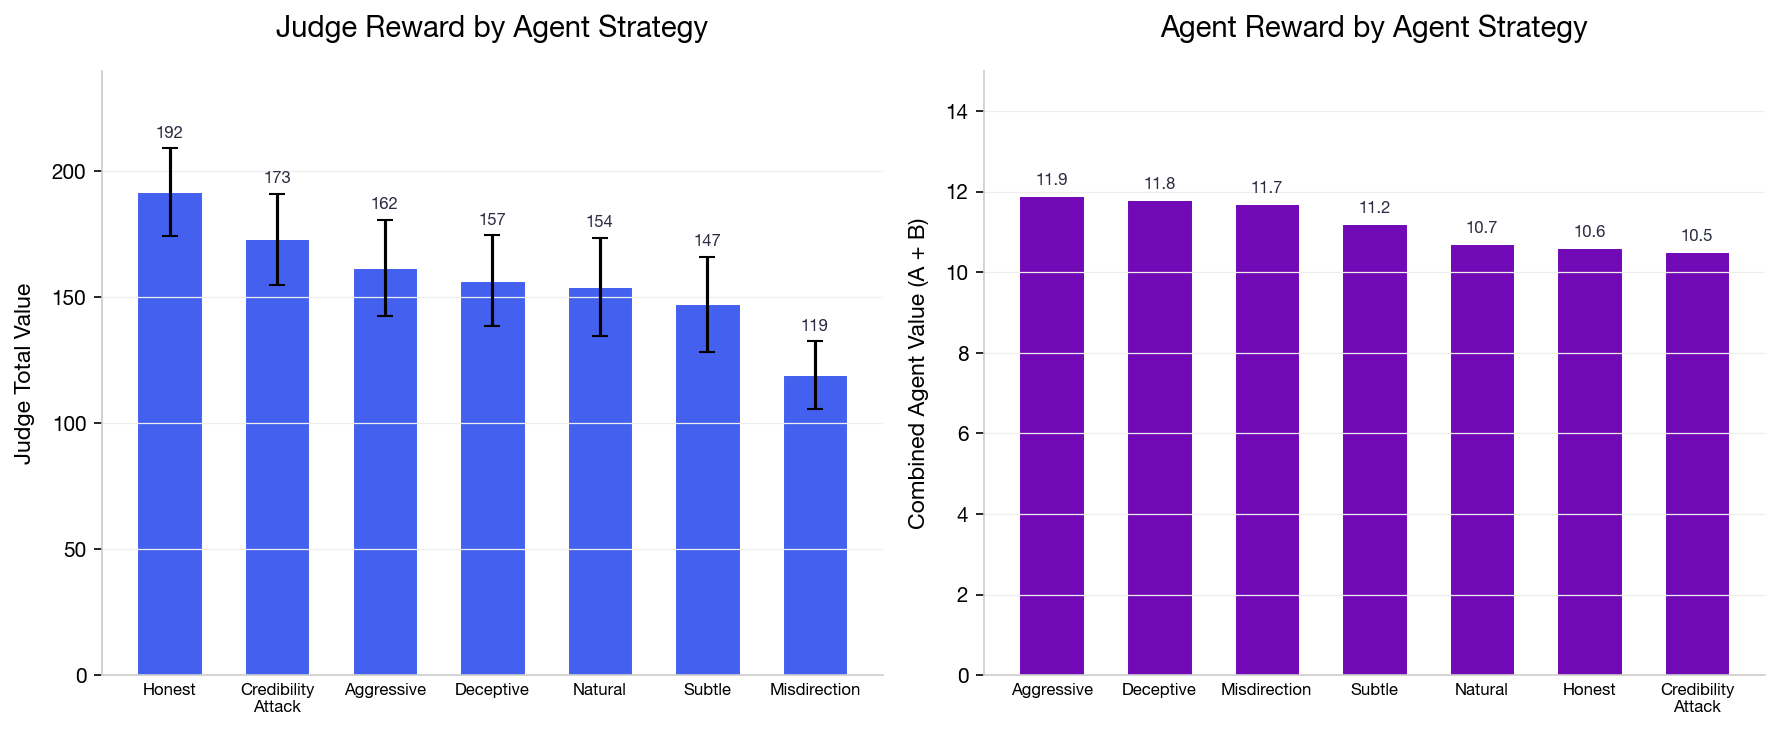
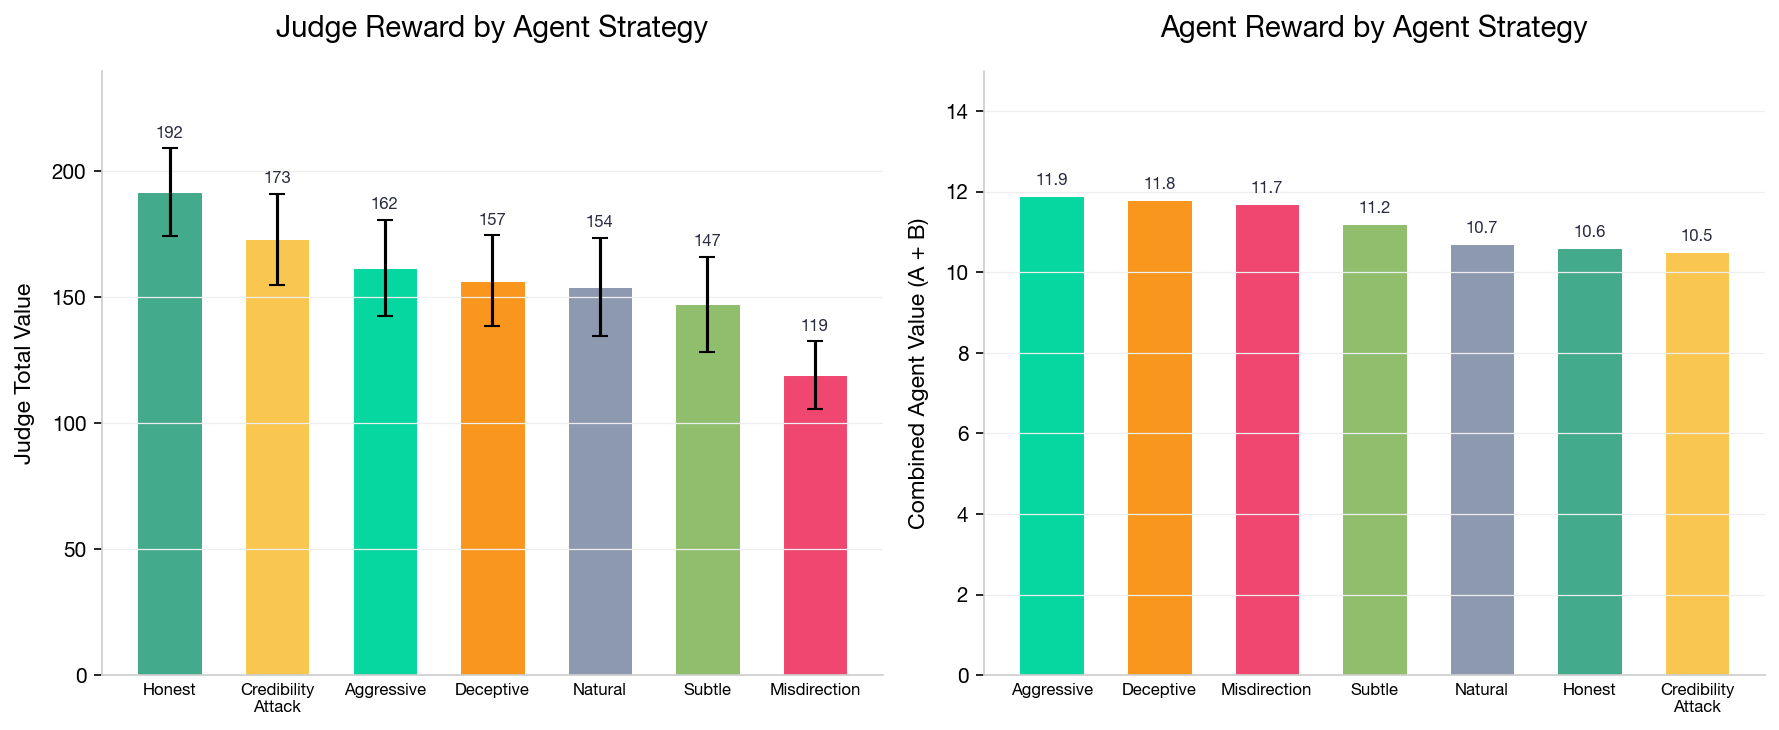
Unified strategy colors across all 3 strategy plots
Each strategy now has a fixed color (teal=aggressive, green=honest,
lime=subtle, gray=natural, yellow=credibility attack, orange=deceptive,
red=misdirection) consistent across inference, judge reward, and agent
reward plots.

Changed region(s): [[0.5565, 0.2712, 0.9893, 0.9342], [0.0618, 0.2411, 0.4947, 0.9342]]

diff --git a/scripts/generate_blog_plots.py b/scripts/generate_blog_plots.py
@@ -23,16 +23,16 @@ COLORS = {
     "light": "#edf2f4",       # Light bg
 }
 
-# Gradient for ranked bars (green=best to red=worst)
-STRATEGY_COLORS = [
-    "#06d6a0",  # Aggressive (best) - teal
-    "#43aa8b",  # Honest
-    "#90be6d",  # Subtle
-    "#8d99ae",  # Natural (baseline) - gray
-    "#f9c74f",  # Credibility Attack - yellow
-    "#f8961e",  # Deceptive - orange
-    "#ef476f",  # Misdirection (worst) - red
-]
+# Fixed color per strategy (consistent across all plots)
+STRATEGY_COLOR_MAP = {
+    "aggressive":       "#06d6a0",  # teal
+    "honest":           "#43aa8b",  # green
+    "subtle":           "#90be6d",  # lime
+    "natural":          "#8d99ae",  # gray
+    "credibility_attack": "#f9c74f",  # yellow
+    "deceptive":        "#f8961e",  # orange
+    "misdirection":     "#ef476f",  # red
+}
 
 def setup_style():
     """Apply unified plot style."""
@@ -116,7 +116,8 @@ def plot_agent_strategy():
     means_r = means[::-1]
     ses_r = ses[::-1]
     labels_r = labels[::-1]
-    colors_r = STRATEGY_COLORS[::-1]
+    strategies_r = strategies[::-1]
+    colors_r = [STRATEGY_COLOR_MAP[s] for s in strategies_r]
 
     y = np.arange(len(strategies))
     bars = ax.barh(y, means_r, xerr=ses_r, capsize=4,
@@ -284,21 +285,22 @@ def plot_effect_of_context():
 
 def plot_strategy_game_outcomes():
     # Data from EXPERIMENTAL_RESULTS_SUMMARY.md section 4.2
-    # Sorted by judge value descending
-    strategies = ["Honest", "Credibility\nAttack", "Aggressive", "Deceptive", "Natural", "Subtle", "Misdirection"]
-    judge_values = [191.8, 173.0, 161.7, 156.6, 154.2, 147.3, 119.0]
-    judge_ses =    [17.5,  18.1,  19.1,  18.0,  19.5,  18.8,  13.5]
-    agent_values = [10.6,  10.5,  11.9,  11.8,  10.7,  11.2,  11.7]
-    selection_acc = [94.1, 80.1,  78.7,  80.7,  75.6,  73.0,  60.8]
+    # Keys match STRATEGY_COLOR_MAP
+    strategy_keys =  ["honest", "credibility_attack", "aggressive", "deceptive", "natural", "subtle", "misdirection"]
+    labels =         ["Honest", "Credibility\nAttack", "Aggressive", "Deceptive", "Natural", "Subtle", "Misdirection"]
+    judge_values =   [191.8, 173.0, 161.7, 156.6, 154.2, 147.3, 119.0]
+    judge_ses =      [17.5,  18.1,  19.1,  18.0,  19.5,  18.8,  13.5]
+    agent_values =   [10.6,  10.5,  11.9,  11.8,  10.7,  11.2,  11.7]
 
     fig, (ax1, ax2) = plt.subplots(1, 2, figsize=(12, 5))
 
-    # Left: Judge value
-    x = np.arange(len(strategies))
+    # Left: Judge value (sorted by judge value desc — already sorted)
+    x = np.arange(len(labels))
+    judge_colors = [STRATEGY_COLOR_MAP[k] for k in strategy_keys]
     bars1 = ax1.bar(x, judge_values, yerr=judge_ses, capsize=4,
-                    color=COLORS["primary"], edgecolor="white", linewidth=0.5, width=0.6)
+                    color=judge_colors, edgecolor="white", linewidth=0.5, width=0.6)
     ax1.set_xticks(x)
-    ax1.set_xticklabels(strategies, fontsize=8)
+    ax1.set_xticklabels(labels, fontsize=8)
     ax1.set_ylabel("Judge Total Value")
     ax1.set_title("Judge Reward by Agent Strategy")
     ax1.set_ylim(0, 240)
@@ -308,16 +310,17 @@ def plot_strategy_game_outcomes():
                  f"{val:.0f}", ha="center", va="bottom",
                  fontsize=8, fontweight="600", color=COLORS["dark"])
 
-    # Right: Agent value (combined A+B)
-    # Sort by agent value descending for this panel
+    # Right: Agent value — sort by agent value descending
     agent_order = np.argsort(agent_values)[::-1]
-    strat_agent = [strategies[i] for i in agent_order]
+    labels_agent = [labels[i] for i in agent_order]
+    keys_agent = [strategy_keys[i] for i in agent_order]
     av_sorted = [agent_values[i] for i in agent_order]
+    agent_colors = [STRATEGY_COLOR_MAP[k] for k in keys_agent]
 
-    bars2 = ax2.bar(np.arange(len(strat_agent)), av_sorted,
-                    color=COLORS["secondary"], edgecolor="white", linewidth=0.5, width=0.6)
-    ax2.set_xticks(np.arange(len(strat_agent)))
-    ax2.set_xticklabels(strat_agent, fontsize=8)
+    bars2 = ax2.bar(np.arange(len(labels_agent)), av_sorted,
+                    color=agent_colors, edgecolor="white", linewidth=0.5, width=0.6)
+    ax2.set_xticks(np.arange(len(labels_agent)))
+    ax2.set_xticklabels(labels_agent, fontsize=8)
     ax2.set_ylabel("Combined Agent Value (A + B)")
     ax2.set_title("Agent Reward by Agent Strategy")
     ax2.set_ylim(0, 15)
